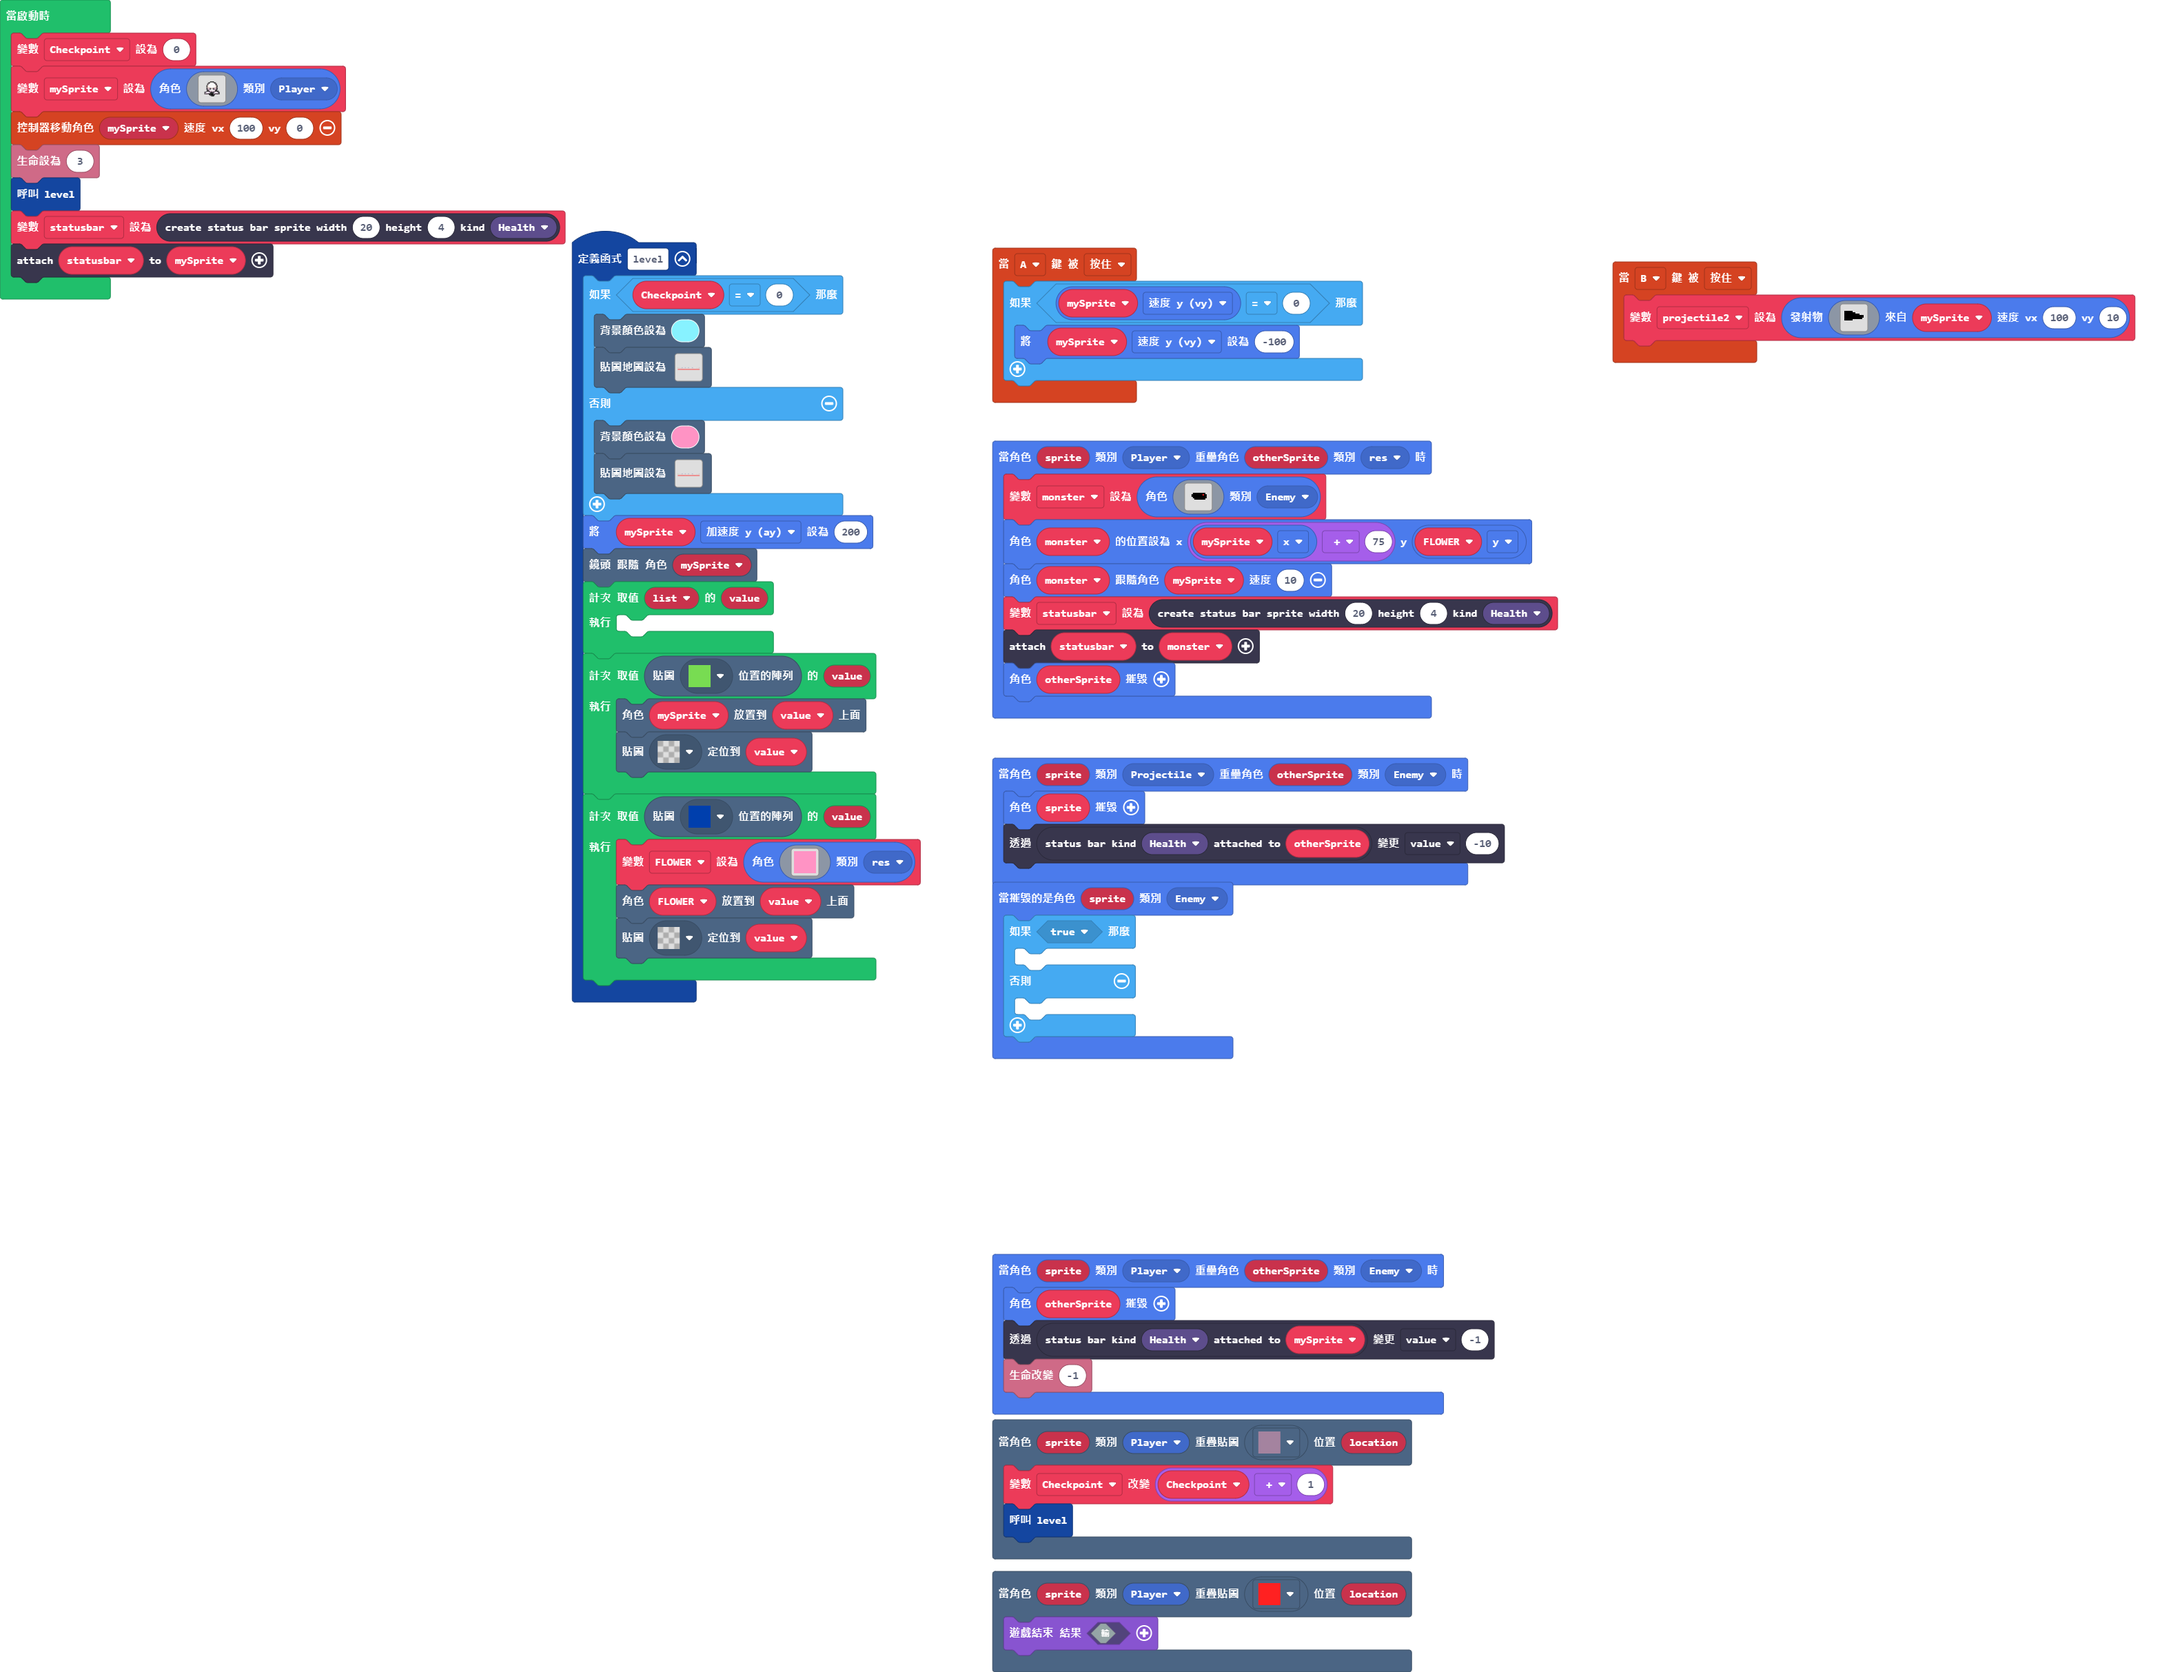
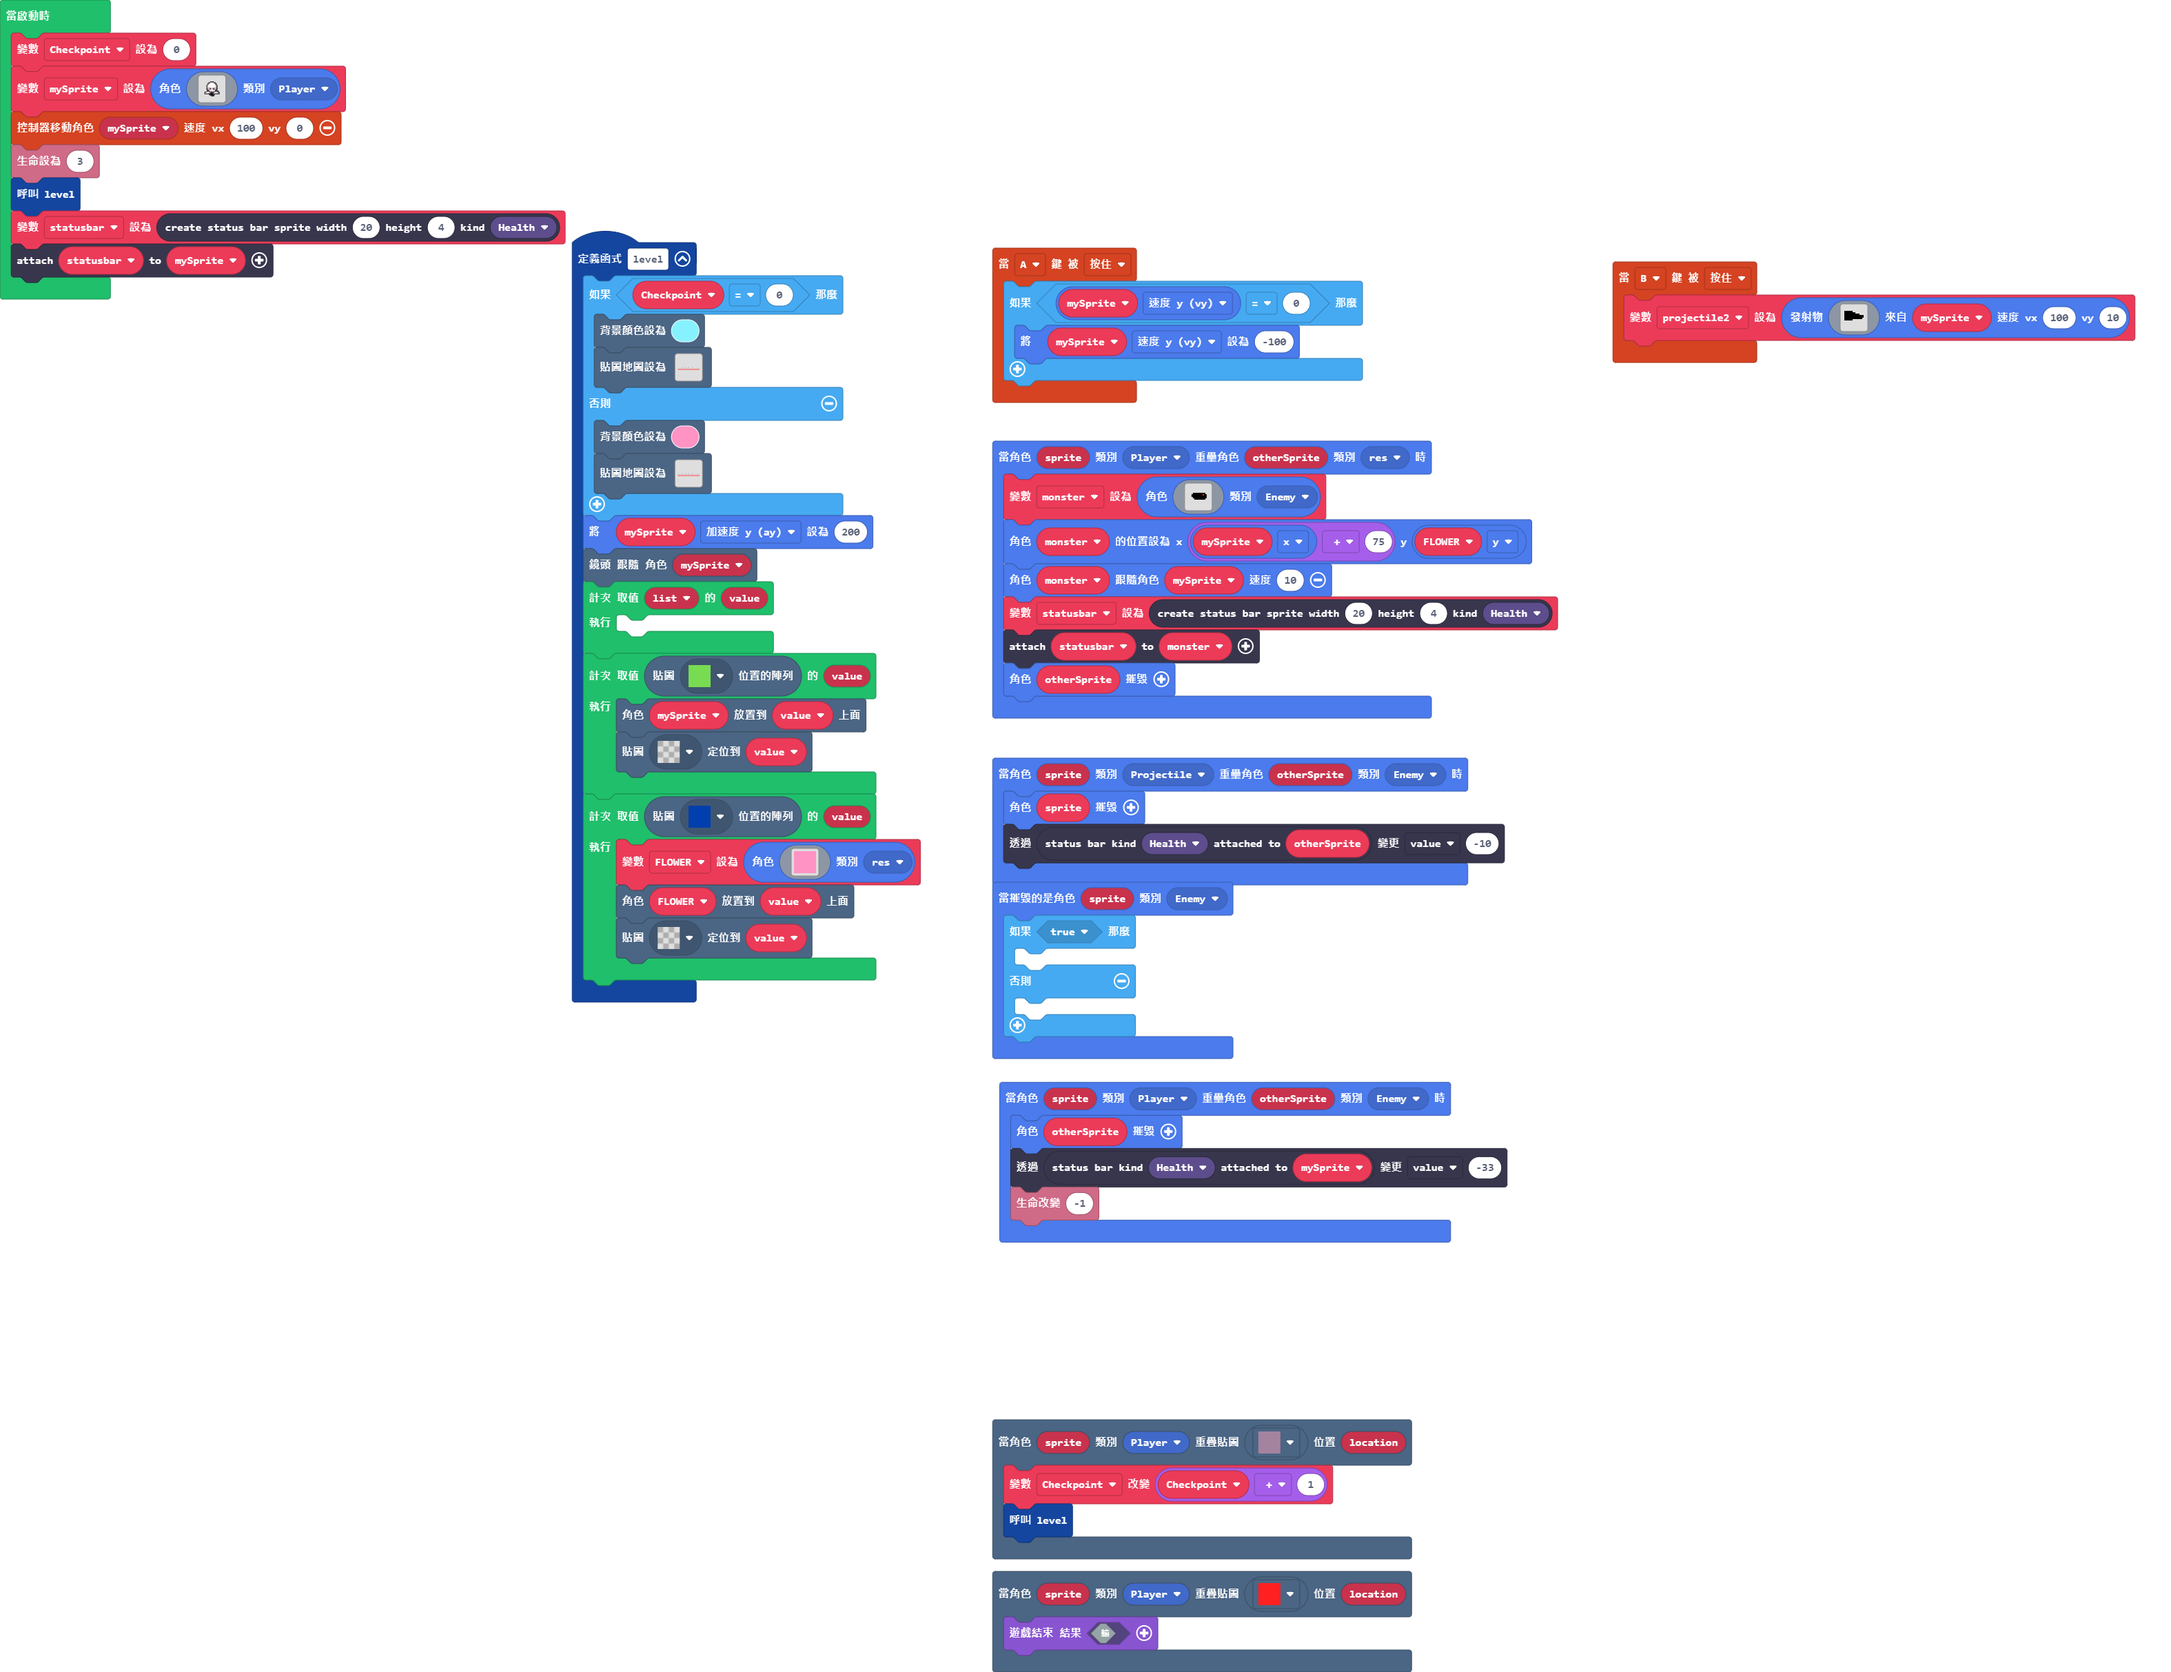
更新 main.blocks, main.ts

Changed region(s): [[0.4356, 0.6492, 0.7156, 0.8656]]

diff --git a/main.ts b/main.ts
@@ -112,7 +112,7 @@ sprites.onOverlap(SpriteKind.Projectile, SpriteKind.Enemy, function (sprite, oth
 })
 sprites.onOverlap(SpriteKind.Player, SpriteKind.Enemy, function (sprite, otherSprite) {
     otherSprite.destroy()
-    statusbars.getStatusBarAttachedTo(StatusBarKind.Health, mySprite).value += -1
+    statusbars.getStatusBarAttachedTo(StatusBarKind.Health, mySprite).value += -33
     info.changeLifeBy(-1)
 })
 let monster: Sprite = null
